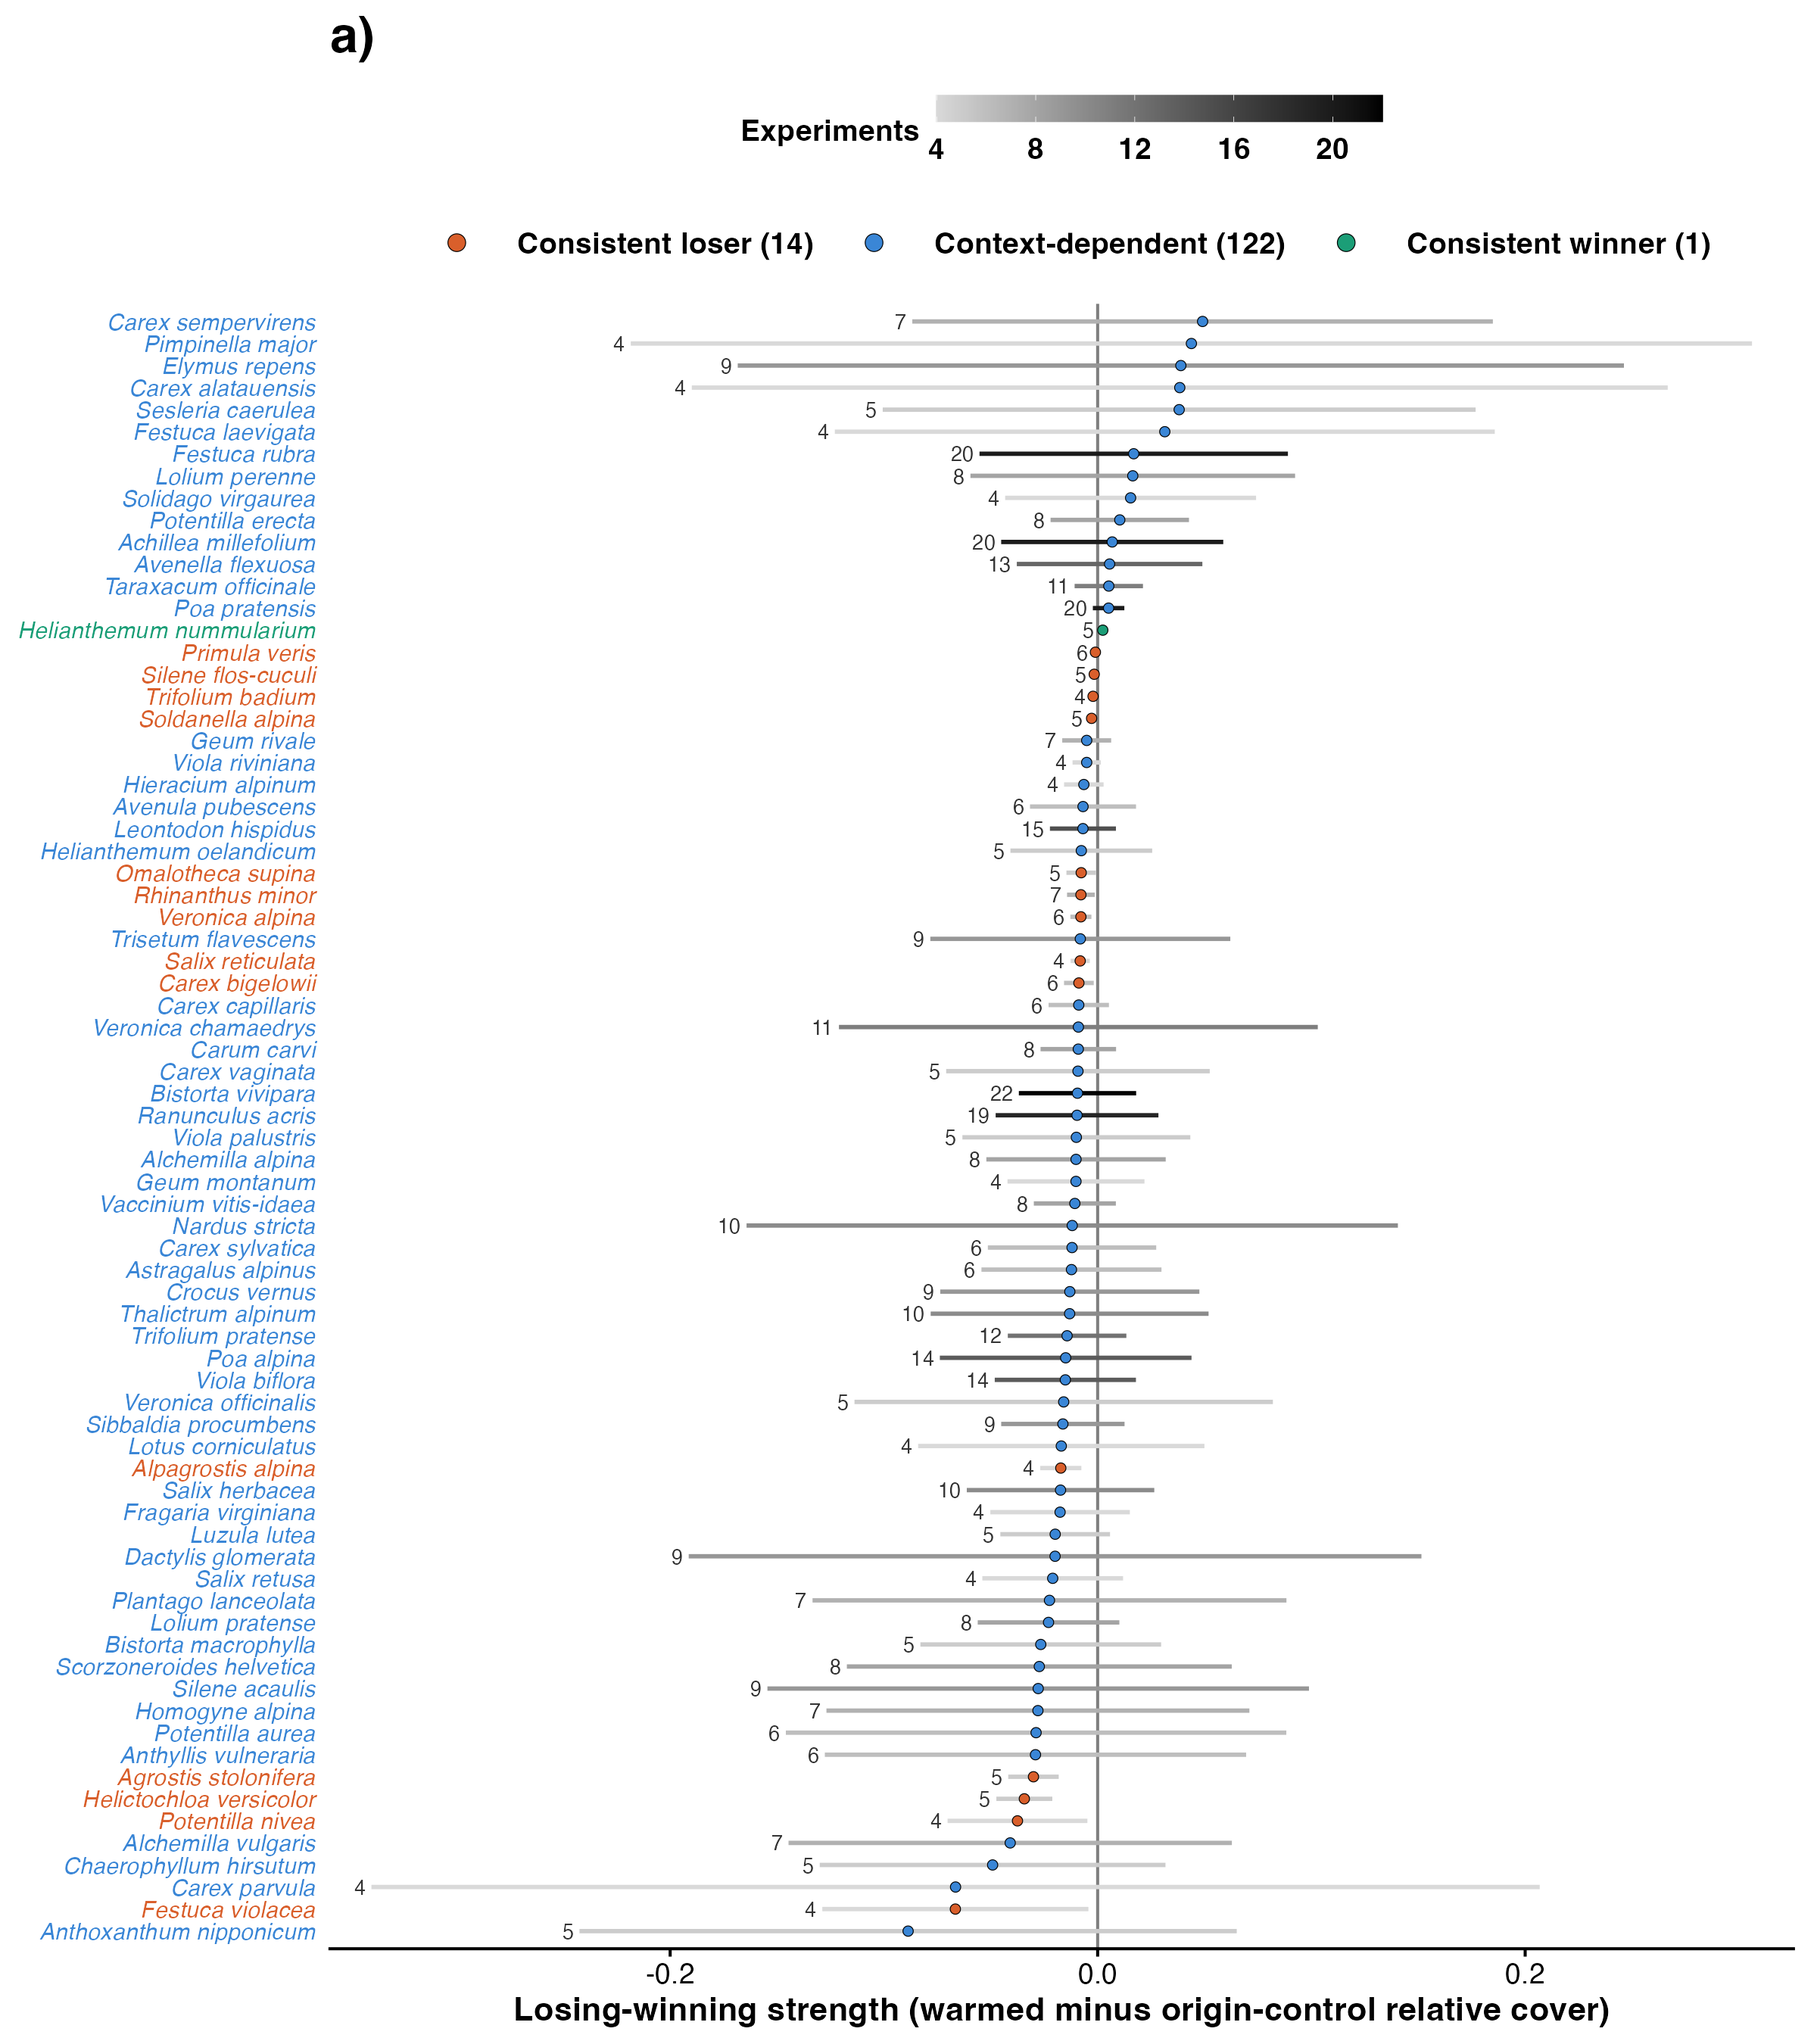
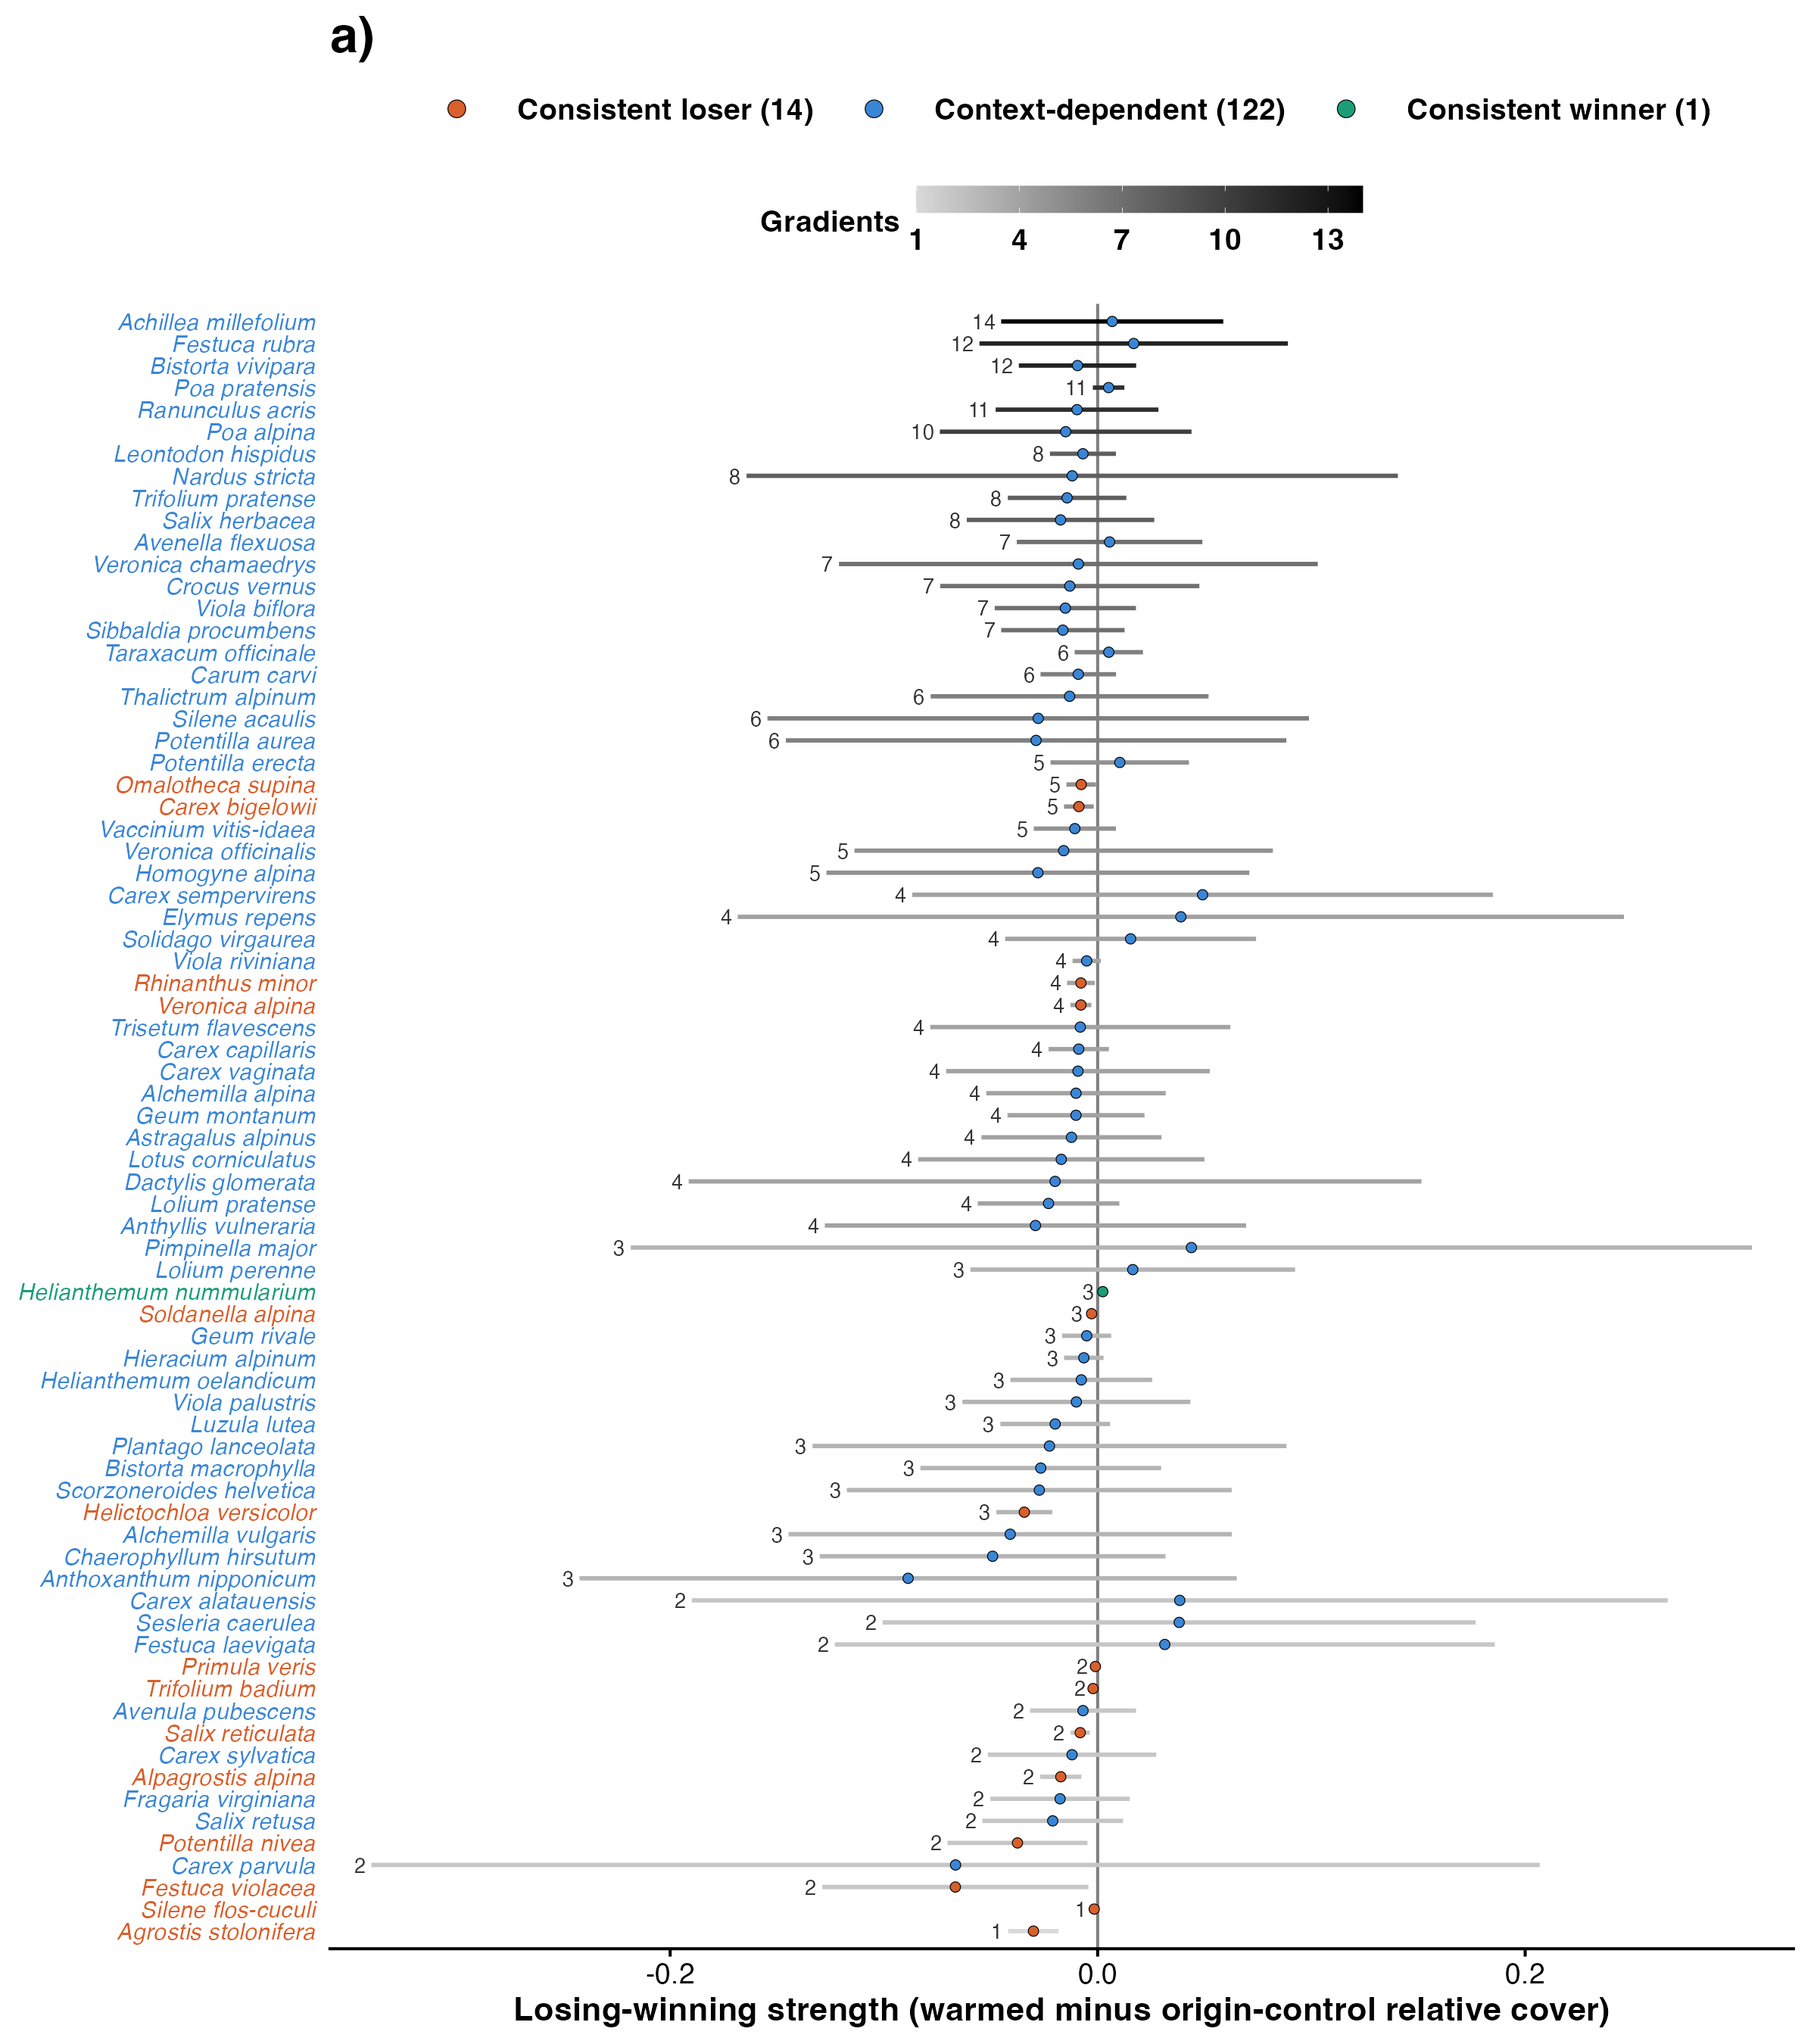
step 04: Fig S6 rows ordered by number of gradients then strength, lines shaded and labelled by gradients; n_gradients added to species_summary (Bills)

diff --git a/reports/04_classification.md b/reports/04_classification.md
@@ -61,7 +61,7 @@ Fig 2 corner panels follow once four species are named (MILESTONES).
 
 ![Fig S6 draft](../figures/diagnostics/04_figS6_draft.png)
 
-Fig S6: point = pooled strength, filled by class; line = 95% interval including the variation among experiments (a line that does not cross zero marks a consistent loser or winner), shaded by the number of experiments. 63 context-dependent species with a pooled strength between -0.005 and +0.005 are not shown.
+Fig S6: point = pooled strength, filled by class; line = 95% interval including the variation among experiments (a line that does not cross zero marks a consistent loser or winner), shaded and labelled by the number of gradients; rows ordered by the number of gradients, then by strength. 63 context-dependent species with a pooled strength between -0.005 and +0.005 are not shown.
 
 ## Warnings captured
 
